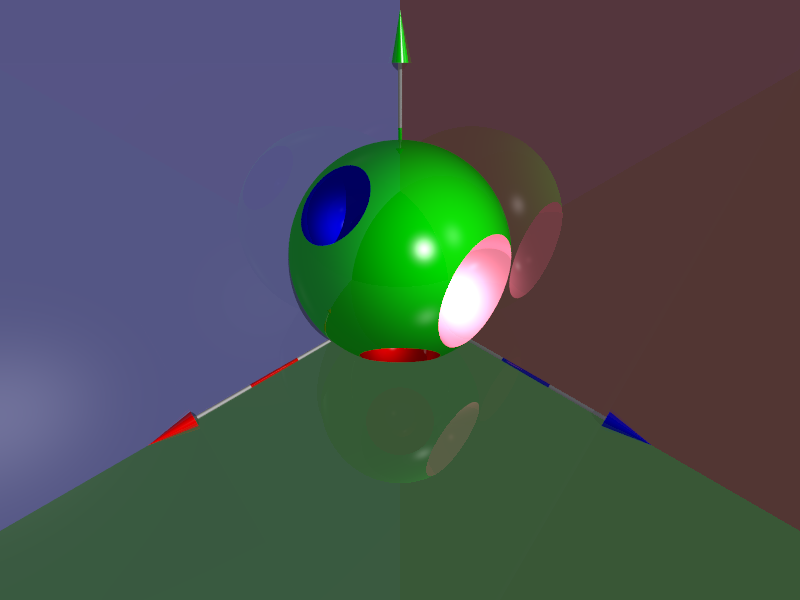
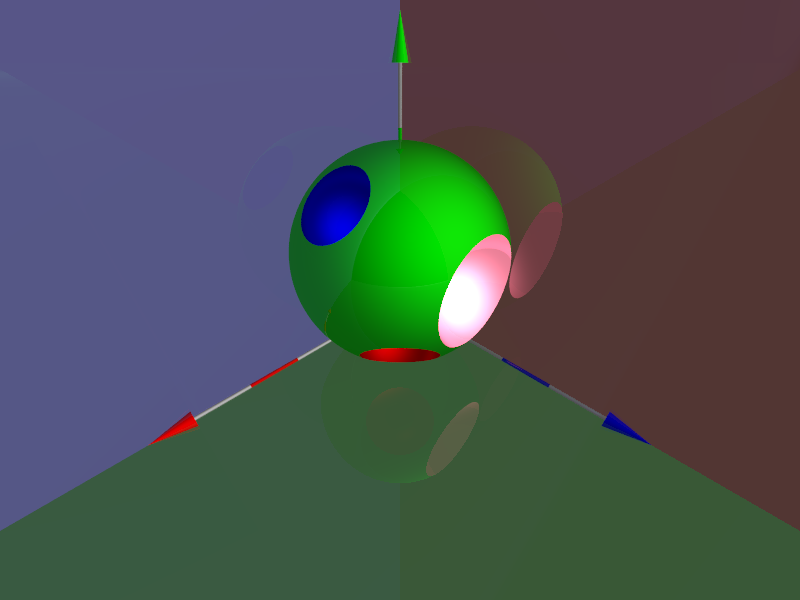
Light: shadowless

diff --git a/pov.m b/pov.m
@@ -137,17 +137,24 @@ classdef pov < handle
         function light(o, varargin)
             % Parse
             p = inputParser;
-            addParameter(p,'location', [100 100 100], @o.check_vector3);
-            addParameter(p,'color',    [1.0 1.0 1.0], @o.check_vector3);
+            addParameter(p,'location',   [100 100 100], @o.check_vector3);
+            addParameter(p,'color',      [1.0 1.0 1.0], @o.check_vector3);
+            addParameter(p,'shadowless', false,         @(x) islogical(x));
             parse(p,varargin{:});
 
-            location = p.Results.location;
-            color    = p.Results.color;
+            location   = p.Results.location;
+            color      = p.Results.color;
+            
+            shadowless = "";
+            if(p.Results.shadowless)
+                shadowless = "shadowless";
+            end
 
             % Write
-            fprintf(o.fh,'light_source{< %0.1f, %0.1f, %0.1f> rgb<%0.2f, %0.2f, %0.2f> shadowless}\n\n', ...
+            fprintf(o.fh,'light_source{< %0.1f, %0.1f, %0.1f> rgb<%0.2f, %0.2f, %0.2f> %s}\n\n', ...
                           location(1), location(2), location(3), ...
-                          color(1), color(2), color(3));
+                          color(1), color(2), color(3), ...
+                          shadowless);
         end
        
         % Axis

diff --git a/examples/spheres_csg.m b/examples/spheres_csg.m
@@ -42,7 +42,7 @@ pov.camera();
 % pov.camera("angle", 15, 'location', [12 12 12]);
 
 %pov.light();
-pov.light('location', [1000 2000 3000], 'color', [1 1 1]);
+pov.light('location', [100 200 300], 'color', [1 1 1], 'shadowless', true);
 
 % Axis textures
 % tex_axis_common  = pov.declare("tex_axis_common", pov.texture([0. 0. 0.], "phong 1 reflection {0.10 metallic 0.4}"));
